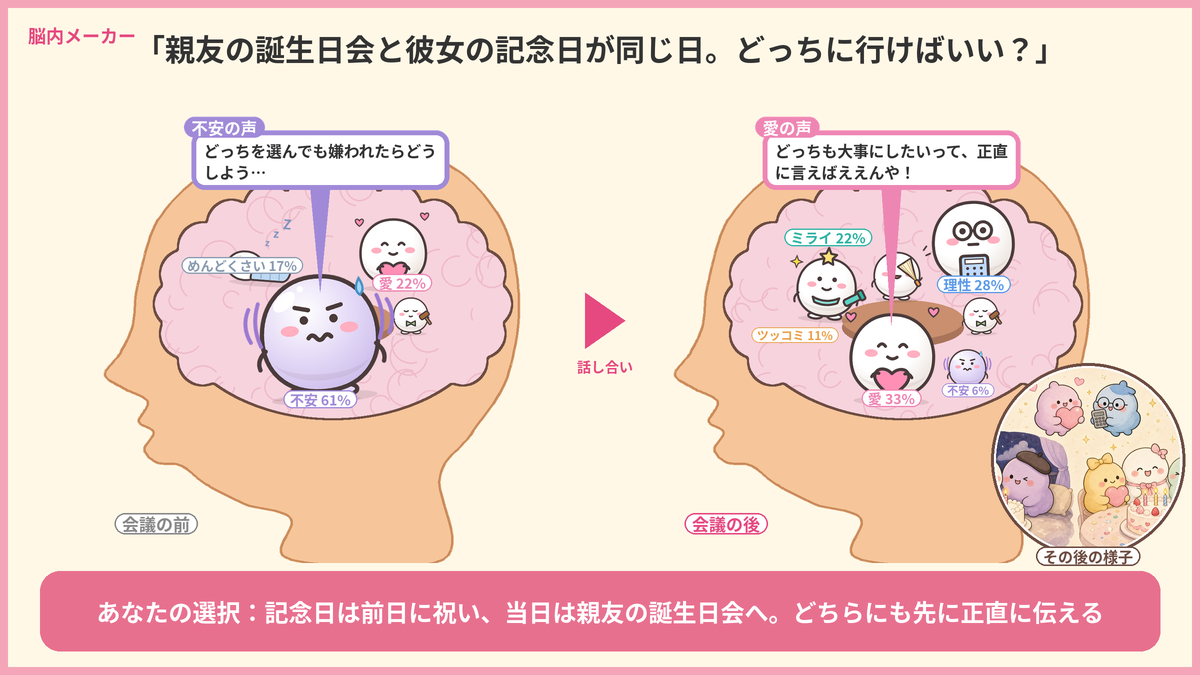
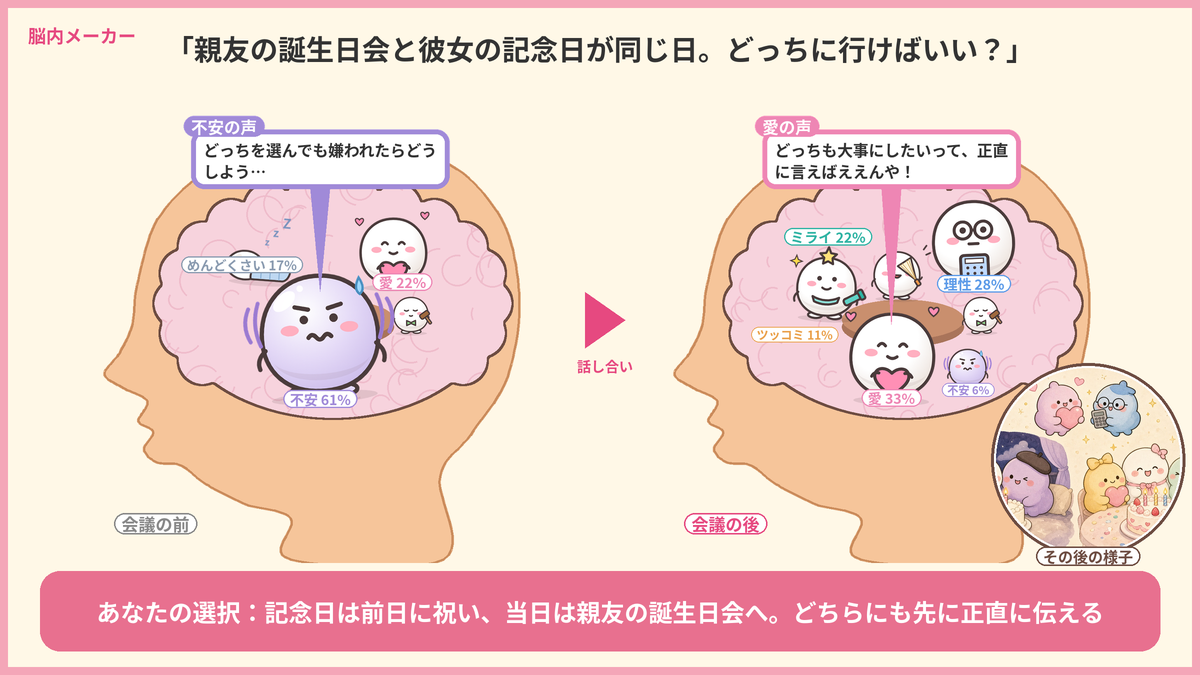
悩みの見出しを直す：長いときは文字を小さくするか自然な切れ目で2行に分け、左上の「脳内メーカー」と重ならないようにする

diff --git a/card.py b/card.py
@@ -236,6 +236,28 @@ def wrap(d, text, f, maxw):
         if d.textlength(cur+ch,font=f)>maxw: lines.append(cur); cur=ch
         else: cur+=ch
     return lines+[cur]
+NO_HEAD="、。，．！？!?」』）)ー…・ぁぃぅぇぉっゃゅょ"   # 行の頭に来てはいけない文字
+BREAK_AFTER="、。，．！？!?　 "                         # ここで切ると自然
+PARTICLES="はがをにでともかへやの"                       # 助詞のあとも自然
+def worry_lines(d, worry, maxw, big=30*K, small1=24*K, small2=20*K):
+    """悩みを「」付きで1行に収める。入らなければ文字を小さくし、それでも無理なら
+    自然な切れ目で2行に分ける（1文字や」だけが次の行に落ちないようにする）。"""
+    text="「"+worry.strip()+"」"
+    for fs in range(big, small1-1, -K):
+        if d.textlength(text,font=F(fs))<=maxw: return fs,[text]
+    n=len(text); best=None
+    for fs in range(big, small2-1, -K):
+        f=F(fs)
+        for i in range(3, n-2):                     # 各行に3文字以上
+            a,b=text[:i],text[i:]
+            if b[0] in NO_HEAD or a[-1]=="「": continue
+            wa,wb=d.textlength(a,font=f),d.textlength(b,font=f)
+            if max(wa,wb)>maxw: continue
+            nat=0 if a[-1] in BREAK_AFTER else (0.08 if a[-1] in PARTICLES and not b[0] in PARTICLES else 0.35)
+            cost=abs(wa-wb)/maxw+nat
+            if best is None or cost<best[0]: best=(cost,[a,b])
+        if best: return fs,best[1]
+    f=F(small2); return small2,wrap(d,text,f,maxw)[:2]
 def make(data, out, seed=None, base="."):
     CHAR_IMAGES.clear()
     # スクリプトの隣の chars/ を先に読み、JSONと同じ場所に chars/ があれば上書き
@@ -251,10 +273,13 @@ def make(data, out, seed=None, base="."):
     d.rectangle([0,0,CW-1,CH-1],outline="#f4a6b8",width=8*K)
     # 上：悩み
     d.text((28*K,22*K),"脳内メーカー",font=F(18*K),fill="#e64980")
-    f=F(30*K); wl=wrap(d,"「"+data["worry"]+"」",f,1000*K)[:2]
-    for i,l in enumerate(wl): d.text((CW/2,(48+36*i)*K),l,font=f,fill="#333",anchor="mm")
-    # 中：前と後
-    top=(48+36*len(wl))*K; crop=(30,40,575,615)
+    # 左上の「脳内メーカー」の幅を左右に空けて、その間に悩みを置く（重ならない）
+    side=28*K+d.textlength("脳内メーカー",font=F(18*K))+18*K
+    fs,wl=worry_lines(d,data["worry"],CW-2*side)
+    lh=fs*1.22; y0=48*K-(len(wl)-1)*lh*0.3
+    for i,l in enumerate(wl): d.text((CW/2,y0+i*lh),l,font=F(fs),fill="#333",anchor="mm")
+    # 中：前と後（悩みの行の下から）
+    top=int(y0+(len(wl)-1)*lh+fs/2+21*K); crop=(30,40,575,615)
     for j,(key,label) in enumerate((("before","会議の前"),("after","会議の後"))):
         p=head_panel(data[key],rnd).crop(tuple(v*K for v in crop))
         sc=(CH-top-118*K)/p.height; p=p.resize((int(p.width*sc),int(p.height*sc)),Image.LANCZOS)
